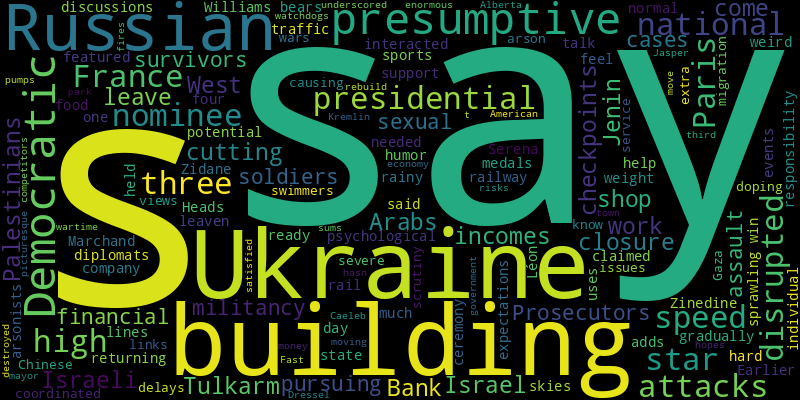
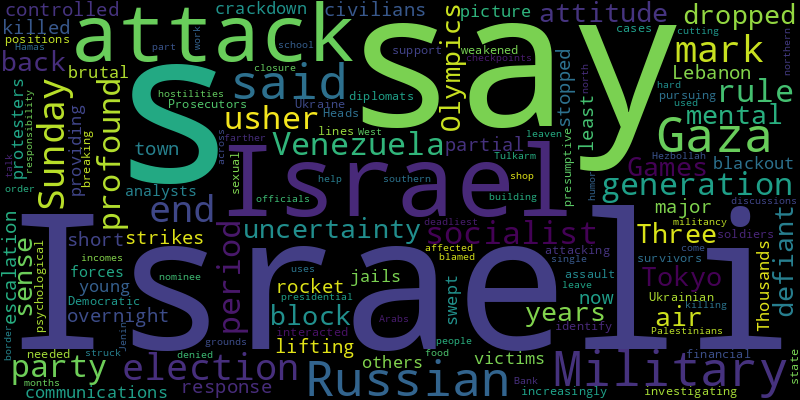
chore(bot): 👻 auto commit

diff --git a/README.md b/README.md
@@ -2,32 +2,35 @@
 Auto RSS New York Times and Generate Word Cloud
 
 ## New York Times Global News
-* With the closure of checkpoints, Israeli Arabs cannot come to Jenin and Tulkarm to shop, and West Bank Palestinians cannot leave to work in Israel, cutting incomes and building militancy.
+* Sunday’s election could mark the end of a generation of rule by Venezuela’s socialist party. It could also usher in a period of profound uncertainty.
+* Three years after she dropped out of the Tokyo Games with a mental block, she is back at the Olympics with a defiant attitude — and a sense of where she is in the air.
+* The overnight strikes, a response to a rocket attack from Lebanon that killed at least 12 civilians in an Israeli-controlled town, stopped short of a major escalation, for now.
+* The partial lifting of a communications blackout is providing a picture of the young victims of a brutal crackdown on protesters. Thousands of others have been swept into jails.
+* Military analysts say Russian forces are increasingly investigating Ukrainian lines to identify weakened positions before attacking and breaking through.
 * Prosecutors in Ukraine are pursuing cases of sexual assault by Russian soldiers, but survivors say more financial and psychological support is needed.
 * Heads of state and diplomats who have interacted with the presumptive Democratic presidential nominee say she uses humor, and talk of food, to help leaven hard discussions.
-* France’s national railway company said traffic was gradually returning to normal a day after arsonists disrupted three high-speed rail lines. No one has claimed responsibility for the attacks.
-* Léon Marchand, who has the potential to win medals in four individual events, bears much of the weight of France’s expectations. He is ready, he says, but adds, “it does feel weird.”
-* The sprawling ceremony was held under rainy skies and featured sports stars like Zinedine Zidane and Serena Williams. Earlier, coordinated arson attacks disrupted service on three high-speed links to Paris, causing severe delays.
-* Here is what we know about the presumptive Democratic presidential nominee’s views on issues like migration and the wars in Ukraine and Gaza.
-* In Paris, Chinese swimmers have been under extra scrutiny by doping watchdogs, but that hasn’t satisfied competitors like American star Caeleb Dressel.
-* The move underscored the wartime risks for the Kremlin as the government pumps enormous sums of money into the Russian economy.
-* Fast-moving fires have destroyed a third of the buildings in the picturesque town of Jasper, Alberta, and its national park. But the mayor hopes to rebuild.
+* It was the deadliest single attack from across Israel’s northern border in months of hostilities. Israel blamed Hezbollah, which denied responsibility.
+* With the closure of checkpoints, Israeli Arabs cannot come to Jenin and Tulkarm to shop, and West Bank Palestinians cannot leave to work in Israel, cutting incomes and building militancy.
+* The order affected part of southern Gaza, while farther north, the Israeli military struck the grounds of a school it said was being used by Hamas, killing more than 30 people, Gaza officials said.
 
 ![Global](./global.png)
 ## New York Times United States News
-* In California, the Park fire has charred more than 307,000 acres, becoming the country’s largest this year. The Durkee fire in Oregon has covered at least 288,000 acres.
-* The agreement, if approved by a federal judge, could deliver the final hammer blow to the amateur model of college athletics.
-* In California, Gov. Gavin Newsom’s declaration urging cities to clear homeless camps met its strongest opposition in Los Angeles.
-* The Park fire in Northern California quickly became the state’s largest and most destructive wildfire this year, not far from where Paradise, Calif., was decimated in 2018.
-* A former Yale Law School classmate shared with The Times about 90 emails and text messages with Mr. Vance. Here are some of the most revealing moments in their correspondence.
-* Andy Beshear, the Democratic governor of a deep-red state, is an intriguing Southern contender to become Kamala Harris’s running mate. He’s already straining to go after JD Vance.
-* His political views differed from a transgender classmate’s, but they forged a bond that lasted a decade — until Mr. Vance seemed to pivot, politically and personally.
-* Speaking to religious conservatives in Florida, former President Donald J. Trump accused Vice President Kamala Harris of wanting to use left-wing values to transform the United States.
-* The explanation was the most definitive to date after the bureau’s director had earlier suggested the former president might have been hit by shrapnel, igniting a political storm.
-* The vice president’s expressions of concern for Palestinian suffering marked a shift in emphasis from the president’s statements as she moved to establish herself as the leader of her party.
+* The fire, the largest active blaze in the United States, was only 10 percent contained on Saturday night. It was expected to burn for several more weeks.
+* With Patriot Party News, Michael Chesebro found a sense of community, and a place where conspiracy theories could become real in the form of the “medbed.”
+* Some Asian American leaders are rooting for Kamala Harris to become the first Asian American president. But she is not widely known as Asian American, reflecting the complexity of the identity.
+* Jorge Armando Contreras used his position at a school district in Orange County to fund a luxurious lifestyle, prosecutors said.
+* The vice president is considering several men who also served as state attorneys general. Those relationships could inform her crucial decision in the days ahead.
+* Timothy Mellon, a reclusive heir to a storied fortune, is spending tens of millions to elect Donald J. Trump. Precisely what he wants in return is one of many curiosities surrounding him.
+* A growing cohort of young farmers is experimenting with ways to mitigate the impact of flooding and other extreme weather.
+* At a rally in Minnesota on Saturday, former President Donald J. Trump once more escalated his attacks against Vice President Kamala Harris, painting her as extreme and mocking her demeanor.
+* Gov. Andy Beshear of Kentucky has shown off his attack dog chops in recent days, offering a message of unity in a state dominated by Republicans — but where Democrats say they’ve seen fresh energy.
+* Donald Trump, speaking at a Bitcoin conference, told cryptocurrency holders that he would end the “persecution” of their industry.
 
 ![US](./usnews.png)
 ## New York Times Asia News
+* The partial lifting of a communications blackout is providing a picture of the young victims of a brutal crackdown on protesters. Thousands of others have been swept into jails.
+* The U.S. secretary of state pressed China’s top foreign policy official on Beijing’s support for Russia’s efforts to rebuild its military industries during the Ukraine war.
+* It’s highly unusual for the nation’s authorities to publicly acknowledge a leak from the command, which is one of South Korea’s top two spy agencies.
 * Zhang Yufei, one of 23 athletes who tested positive for a banned substance before the last Olympics, said China did not allow doping, and offered a window into the stress the accusations have caused.
 * Here is what we know about the presumptive Democratic presidential nominee’s views on issues like migration and the wars in Ukraine and Gaza.
 * The former president met with the Israeli leader in Florida, a day after his main opponent, Vice President Kamala Harris, and he both criticized Israel’s conduct of the war.
@@ -35,8 +38,5 @@ Auto RSS New York Times and Generate Word Cloud
 * Asian officials will press Secretary of State Antony J. Blinken about the former president and about Kamala Harris as he visits the region.
 * The use of artificial intelligence is exploding around the world, but the technology’s language models are primarily trained in English, leaving many speakers of other languages behind.
 * The storm has already left a trail of destruction in Taiwan and the Philippines, where it killed at least 15 people.
-* The country is famous for its hospitality. But businesses have had enough of people screaming at workers or tormenting them on social media.
-* Plus, a new poll shows Kamala Harris closing in on Donald Trump.
-* Each new disaster, including a crash that killed 18 people on Wednesday, leads to another investigation. A serious conflict of interest is always left unaddressed.
 
 ![Asian](./asian.png)
